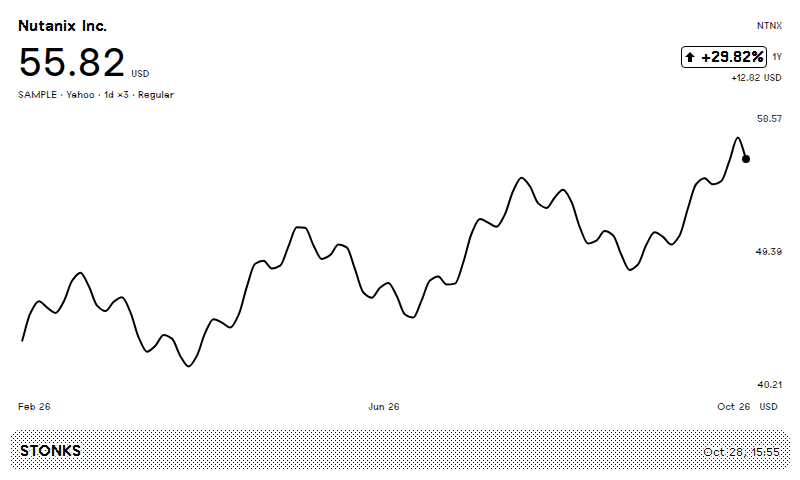
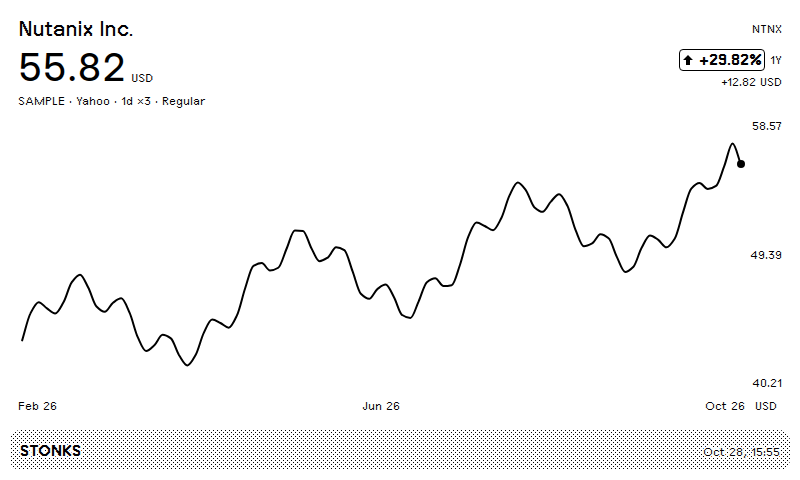
style: improve stock chart readability
Use a native 21px full-screen heading and 12px label defaults while preserving the prominent price and compact slot layouts. Measure typography in the preview matrix and refresh the lossless sample images.

Verify 54 Node 20 checks, 512 local previews, four official builds and 12 hosted renders. Deploy through MCP with 12px supporting text. Confirm that the normal Yahoo chart response has no stock logo and document the separate quote API requirement.

diff --git a/TRMNL/README.md b/TRMNL/README.md
@@ -50,7 +50,7 @@ The existing private installation is managed through TRMNL MCP. Repository pushe
 | Grid, volume, baseline | Show/hide; volume requires provider data |
 | Extended hours | Available intraday pre/post-market bars |
 | Locale | English, German, French, Spanish, Italian or Polish |
-| Typography | Small/normal/large header; 8–16 px supporting text |
+| Typography | Small/normal/large header; 8–16 px supporting text, default 12 px |
 | Precision | Automatic, 0, 2, 4 or 6 decimals |
 
 Examples: `NTNX`, `VWCE.DE`, `VWRP.L`, `^GSPC`, `BTC-USD`, `EURUSD=X`, `NASDAQ:NTNX`, `XETR:VWCE`. Unknown exchange prefixes require the exact Yahoo ticker. Some instruments lack particular ranges, FX pairs, OHLC or volume.
@@ -65,6 +65,8 @@ Examples: `NTNX`, `VWCE.DE`, `VWRP.L`, `^GSPC`, `BTC-USD`, `EURUSD=X`, `NASDAQ:N
 - **transform.js:** Yahoo/FX requests, validation, conversion, saved-state recovery, chart coordinates and exact numeric/date formatting. No runtime packages or browser scripts.
 
 OG and X use black arrows and hollow rising/filled falling candles. B/W/R/Y adds yellow gains and red losses; full-color palettes use green/red. The main price stays black. The return indicator follows the selected baseline, while each candle follows its own open-to-close move.
+
+On OG full screen, the normal company name uses the native 21 px title and the price remains 38 px. Labels and supporting text default to 12 px, matching TRMNL's small pixel font. Smaller slots retain compact headings, and X uses the framework's device scaling.
 
 ## Data and saved state
 
@@ -100,5 +102,7 @@ magick dist/preview/og-landscape-full-fresh.png -define webp:lossless=true TRMNL
 ## Provider limitations
 
 Yahoo's chart endpoint is undocumented and can fail or change. Instrument coverage, history, FX pairs and pricing can differ from TradingView. Review [Yahoo's terms](https://legal.yahoo.com/us/en/yahoo/terms/otos/index.html) for your intended use.
+
+Stock logos are not included in the chart response used by STONKS. Yahoo exposes logo fields on a separate [quote endpoint](https://github.com/gadicc/yahoo-finance2/blob/634e594b30ce962d8b85f92fc1657d9a30a27398/src/modules/quote.ts); the plugin does not add a second request or authentication flow for logos.
 
 [TRMNL Shared templates](https://help.trmnl.com/en/articles/13216853-reusing-markup-with-shared) · [Charts](https://trmnl.com/framework/docs/3.4/chart) · [Serverless](https://help.trmnl.com/en/articles/14130649-serverless) · [Saved State](https://help.trmnl.com/en/articles/16777795-saved-state)
